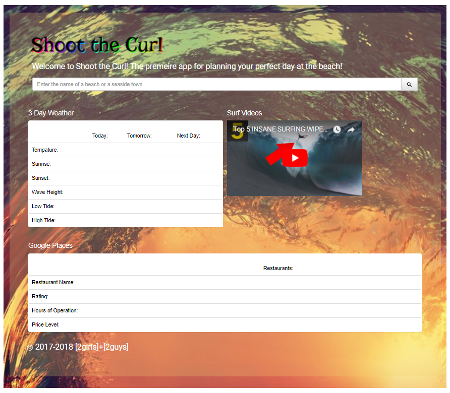
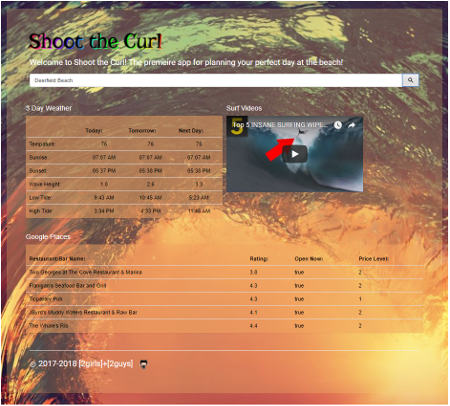
major updates to Places Table, .js, .css, screenshot

diff --git a/index.html b/index.html
@@ -47,7 +47,7 @@
           <span class="rainbow">Shoot the Curl</span>
         </div>
 
-        <p class="lead">Welcome to Shoot the Curl! The premeire app for planning your perfect day at the beach!</p>
+        <p class="lead">Welcome to Shoot the Curl! The premier app for planning your perfect day at the beach!</p>
         <p>
           <div class="input-group">
             <input type="text" class="form-control location" placeholder="Enter the name of a beach or a seaside town...">
@@ -55,8 +55,8 @@
               <button class="btn btn-default search" type="button" value="play" onclick="play()">
                 <img src="assets/img/ic_search_black_18px.svg">
               </button>
-        <!-- Link to .wav: Operates in conjunction with <value="play" onclick="play()"> button class tags above -->
-        <audio id="audio" src="assets/snd/gnarly.wav" ></audio> 
+              <!-- Link to .wav: Operates in conjunction with <value="play" onclick="play()"> button class tags above -->
+              <audio id="audio" src="assets/snd/gnarly.wav"></audio>
         </p>
         </div>
 
@@ -69,15 +69,20 @@
             <div class="panel text-center">
               <div class="panel-heading"></div>
               <table id="table" class="table">
+
+                <thead>
+
+                  <!-- <tr> -->
+                  <th></th>
+                  <th>Today</th>
+                  <th>Tomorrow</th>
+                  <th>Next Day</th>
+                  <!-- </tr> -->
+                </thead>
+
                 <tbody>
                   <tr>
-                    <th></th>
-                    <th>Today:</th>
-                    <th>Tomorrow:</th>
-                    <th>Next Day:</th>
-                  </tr>
-                  <tr>
-                    <th>Tempature:</th>
+                    <th>Temperature:</th>
                     <td>
                       <div span id="todTemp"></div>
                     </td>
@@ -159,76 +164,151 @@
             <iframe width="357" height="200" src="https://www.youtube.com/embed/zMClH1apa20" frameborder="0" gesture="media" allow="encrypted-media"
               allowfullscreen></iframe>
           </div>
-
         </div>
 
+        <!-- BEGIN Google Places -->
         <div class="row">
           <div class="places col-sm-12">
             <h4>Google Places</h4>
-            <div class="panel text-center">
+
+            <!-- <div class="panel text-center"> -->
+            <div class="panel">
+
               <div class="panel-heading"></div>
               <table id="table" class="table">
+
+                <thead>
+                  <tr>
+                    <th>Restaurant/Bar Name</th>
+                    <th>Rating</th>
+                    <th>Open Now</th>
+                    <th>Price Level</th>
+                  </tr>
+                </thead>
+
                 <tbody>
-                  <tr>
-                    
-                    <th>Local Restaurants & Bars:</th>
+
+                  <td>
+                    <div span id="restName"></div>
+                  </td>
+
+                  <td>
+                    <div span id="restRating"></div>
+                  </td>
+
+                  <td>
+                    <div span id="restHours"></div>
+                  </td>
+
+                  <td>
+                    <div span id="restPrice"></div>
+                  </td>
                   </tr>
+
                   <tr>
-                    <th>Restaurant Name:</th>
                     <td>
-                      <div span id="restName"></div>
+                      <div span id="restName1"></div>
+                    </td>
+
+                    <td>
+                      <div span id="restRating1"></div>
+                    </td>
+
+                    <td>
+                      <div span id="restHours1"></div>
+                    </td>
+
+                    <td>
+                      <div span id="restPrice1"></div>
                     </td>
                   </tr>
+
                   <tr>
-                    <th>Rating:</th>
                     <td>
-                      <div span id="restRating"></div>
+                      <div span id="restName2"></div>
+                    </td>
+
+                    <td>
+                      <div span id="restRating2"></div>
+                    </td>
+
+                    <td>
+                      <div span id="restHours2"></div>
+                    </td>
+
+                    <td>
+                      <div span id="restPrice2"></div>
                     </td>
                   </tr>
+
                   <tr>
-                    <th>Hours of Operation:</th>
                     <td>
-                      <div span id="restHours"></div>
+                      <div span id="restName3"></div>
+                    </td>
+
+                    <td>
+                      <div span id="restRating3"></div>
+                    </td>
+
+                    <td>
+                      <div span id="restHours3"></div>
+                    </td>
+
+                    <td>
+                      <div span id="restPrice3"></div>
                     </td>
                   </tr>
+
                   <tr>
-                    <th>Price Level:</th>
                     <td>
-                      <div span id="restPrice"></div>
+                      <div span id="restName4"></div>
+                    </td>
+
+                    <td>
+                      <div span id="restRating4"></div>
+                    </td>
+
+                    <td>
+                      <div span id="restHours4"></div>
+                    </td>
+
+                    <td>
+                      <div span id="restPrice4"></div>
                     </td>
                   </tr>
+
                 </tbody>
               </table>
             </div>
-            <!-- <h4>Google Places</h4>
-            <p>List of Bars and Restaurants</p> -->
-
           </div>
-
-          <footer class="footer">
-            <hr>
-            <p>
-              <img src="assets/img/ic_copyright_white_18px.svg"> 2017-2018 [2girls]+[2guys]&nbsp;&nbsp;
-              <a href="https://github.com/Highlyne/2guys-2girls/">
-                <img src="assets/img/octocat.png" alt="Go to Github Repository" style="width:25px;height:25px;border:0;">
-              </a>
-            </p>
-          </footer>
-
-          <!-- /container -->
         </div>
+        <!-- closes the row div -->
+        <!-- END Google Places Section -->
 
-        <!-- JAVASCRIPT - This must be last item in <body>. -->
-        <script type="text/javascript" src="https://cdnjs.cloudflare.com/ajax/libs/jquery/3.2.1/jquery.min.js"></script>
+        <footer class="footer">
+          <hr>
+          <p>
+            <img src="assets/img/ic_copyright_white_18px.svg"> 2017-2018 [2girls]+[2guys]&nbsp;&nbsp;
+            <a href="https://github.com/Highlyne/2guys-2girls/">
+              <img src="assets/img/octocat.png" alt="Go to Github Repository" style="width:25px;height:25px;border:0;">
+            </a>
+          </p>
+        </footer>
 
-        <!-- Google API -->
-        <script type="text/javascript" src="assets/js/google.js"></script>
+        <!-- /container -->
+      </div>
 
-        <!-- Weather API -->
-        <script type="text/javascript" src="assets/js/weather.js"></script>
+      <!-- JAVASCRIPT - This must be last item in <body>. -->
+      <script type="text/javascript" src="https://cdnjs.cloudflare.com/ajax/libs/jquery/3.2.1/jquery.min.js"></script>
 
-        <!-- Link to script.js -->
-        <script type="text/javascript" src="assets/js/script.js"></script>
+      <!-- Google API -->
+      <script type="text/javascript" src="assets/js/google.js"></script>
+
+      <!-- Weather API -->
+      <script type="text/javascript" src="assets/js/weather.js"></script>
+
+      <!-- Link to script.js -->
+      <script type="text/javascript" src="assets/js/script.js"></script>
 
 </body>
 

diff --git a/assets/js/google.js b/assets/js/google.js
@@ -35,6 +35,63 @@ var location = $(".location").val();
      var pPrice = response.results["0"].price_level;
      $("#restPrice").text(pPrice);
      console.log(pPrice);
+
+    // BEGIN - THIS SECTION WAS ADDED //////////////////////////////////////////////////
+
+    var pName = response.results["1"].name;
+    $("#restName1").text(pName);
+    console.log(pName);
+    var pRate = response.results["1"].rating;
+    $("#restRating1").text(pRate);
+    console.log(pRate);
+    var pHour = response.results["1"].opening_hours.open_now;
+    $("#restHours1").text(pHour);
+    console.log(pHour);
+    var pPrice = response.results["1"].price_level;
+    $("#restPrice1").text(pPrice);
+    console.log(pPrice);
+
+    var pName = response.results["2"].name;
+    $("#restName2").text(pName);
+    console.log(pName);
+    var pRate = response.results["2"].rating;
+    $("#restRating2").text(pRate);
+    console.log(pRate);
+    var pHour = response.results["2"].opening_hours.open_now;
+    $("#restHours2").text(pHour);
+    console.log(pHour);
+    var pPrice = response.results["2"].price_level;
+    $("#restPrice2").text(pPrice);
+    console.log(pPrice);
+
+    var pName = response.results["3"].name;
+    $("#restName3").text(pName);
+    console.log(pName);
+    var pRate = response.results["3"].rating;
+    $("#restRating3").text(pRate);
+    console.log(pRate);
+    var pHour = response.results["3"].opening_hours.open_now;
+    $("#restHours3").text(pHour);
+    console.log(pHour);
+    var pPrice = response.results["3"].price_level;
+    $("#restPrice3").text(pPrice);
+    console.log(pPrice);
+
+    var pName = response.results["4"].name;
+    $("#restName4").text(pName);
+    console.log(pName);
+    var pRate = response.results["4"].rating;
+    $("#restRating4").text(pRate);
+    console.log(pRate);
+    var pHour = response.results["4"].opening_hours.open_now;
+    $("#restHours4").text(pHour);
+    console.log(pHour);
+    var pPrice = response.results["4"].price_level;
+    $("#restPrice4").text(pPrice);
+    console.log(pPrice);
+
+    // END END END - THIS SECTION WAS ADDED //////////////////////////////////////
+
  });
 }
 

diff --git a/assets/css/style.css b/assets/css/style.css
@@ -23,8 +23,16 @@ h4 {
     color: #ffffff;
 }
 
+th {
+    font-weight: bold;
+}
+
 .lead {
     color: #ffffff;
+}
+
+thead {
+    font-weight: bold;
 }
 
 .jumbotron {
@@ -68,15 +76,12 @@ h4 {
 @media screen and (max-width:640px) {
 }
 
-@media (max-width: 640px) {
-    #masthead {
-      position: static;
-    }
+@media (max-width: 768px) {
+  
 }
 
-@media (max-width: 768px) {
-  .sidebar {
-    float: none;
-    max-width: 100%;
+@media (max-width: 640px) {
+    .rainbow {
+        font-size: 2.5em;
     }
 }

diff --git a/assets/js/script.js b/assets/js/script.js
@@ -10,3 +10,4 @@ $('input:text').focus(
     function(){
         $(this).val('');
     });
+
